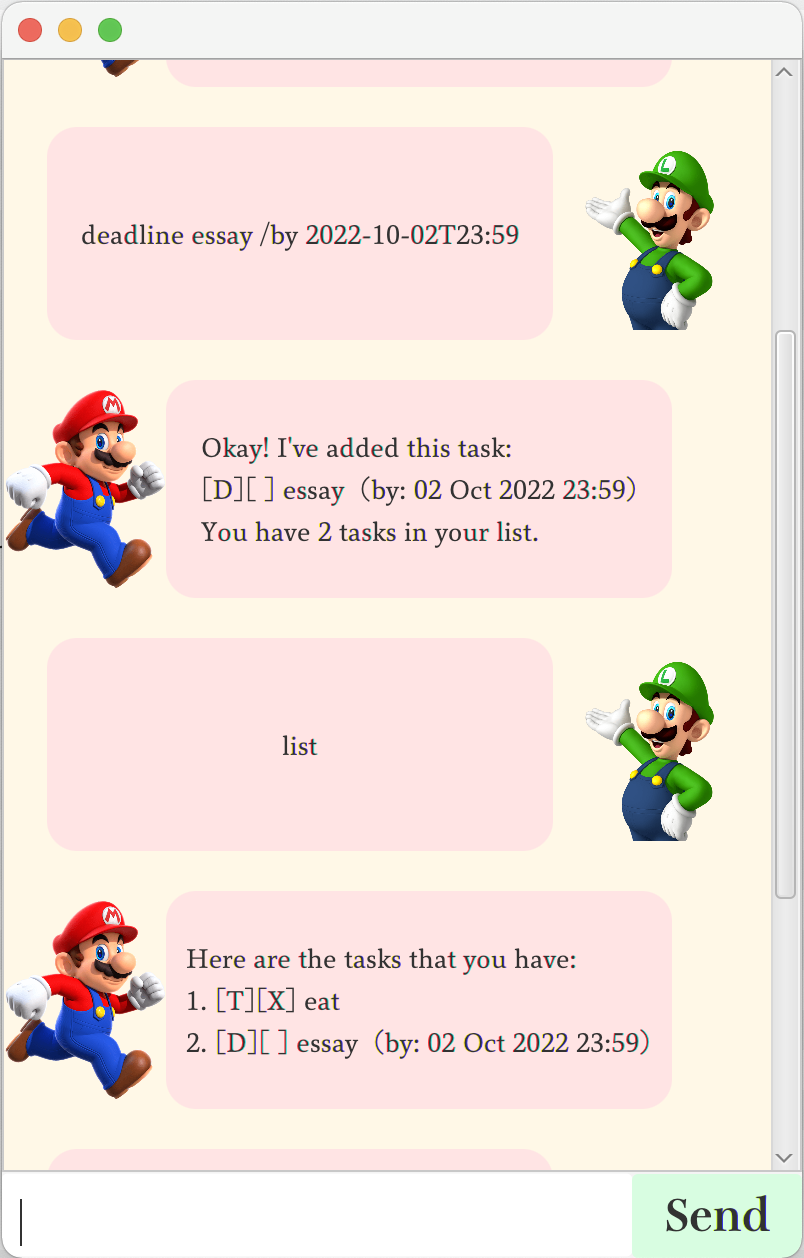
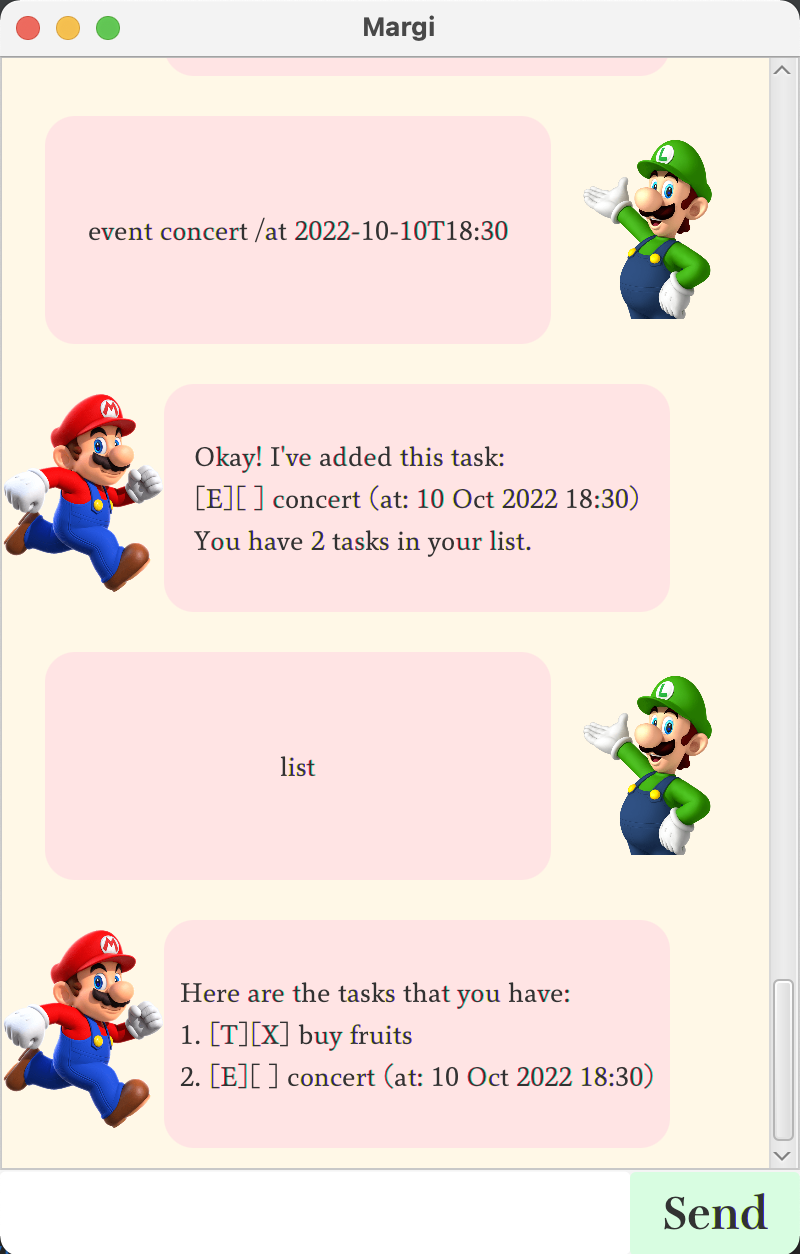
Amend Final Features

diff --git a/src/main/java/duke/Main.java b/src/main/java/duke/Main.java
@@ -20,6 +20,7 @@ public class Main extends Application {
             FXMLLoader fxmlLoader = new FXMLLoader(Main.class.getResource("/view/MainWindow.fxml"));
             AnchorPane ap = fxmlLoader.load();
             Scene scene = new Scene(ap);
+            stage.setTitle("Margi");
             stage.setScene(scene);
             fxmlLoader.<MainWindow>getController().setDuke(duke);
             stage.show();

diff --git a/docs/README.md b/docs/README.md
@@ -6,10 +6,11 @@ Interface.
 
 ## Quick Start
 1. Ensure you have Java 11 or above installed in your Computer
-2. Download the latest`duke.jar` from [here](https://github.com/Dilysss/ip/releases/tag/v2.0).
+2. Download the latest`duke.jar` from [here](https://github.com/Dilysss/ip/releases/tag/A-Release).
 3. Copy file to the folder you want to use as the home folder for your Margi Bot.
-4. Double-click the file to start the app. 
-5. Begin your Margi adventure!
+4. Go into the folder containing the jar file.
+5. Run `java -jar duke.jar` to launch the application.
+6. Begin your Margi adventure!
 
 ## Features 
 
